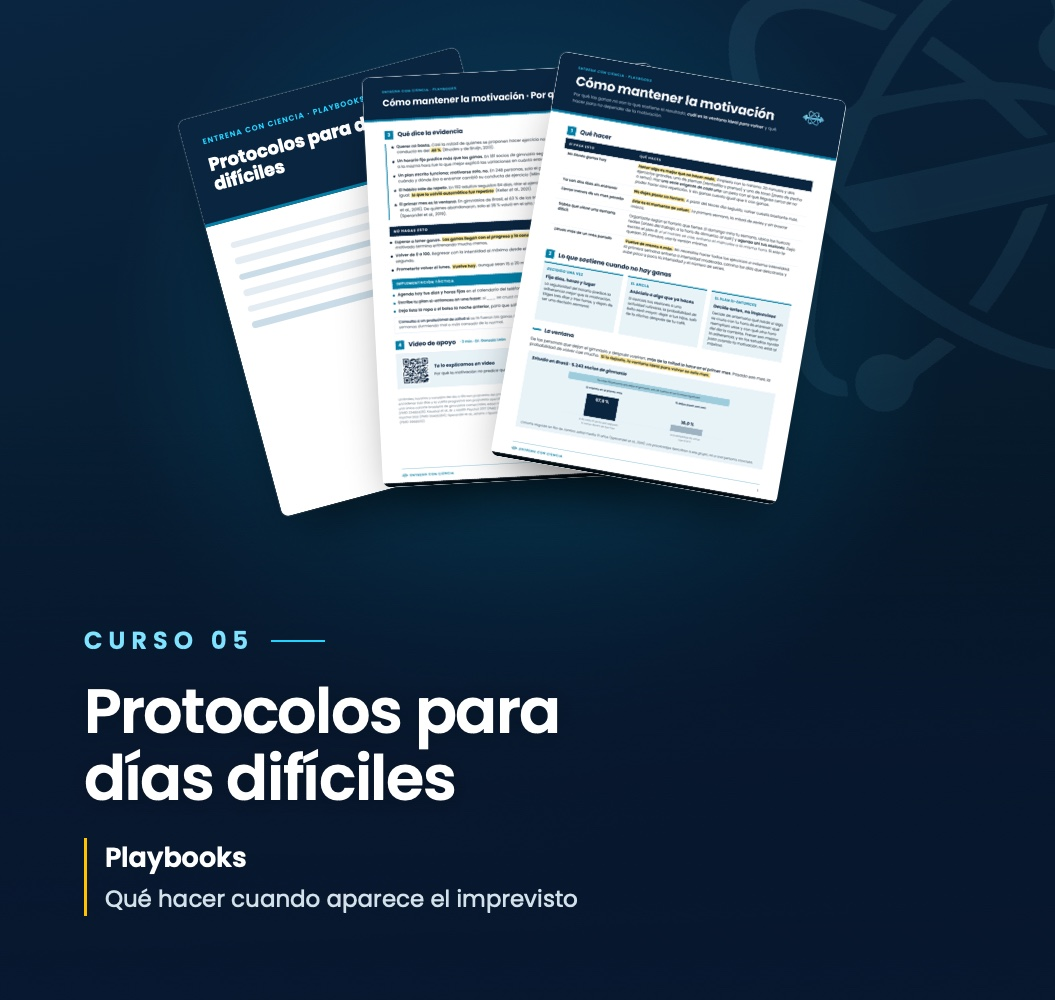
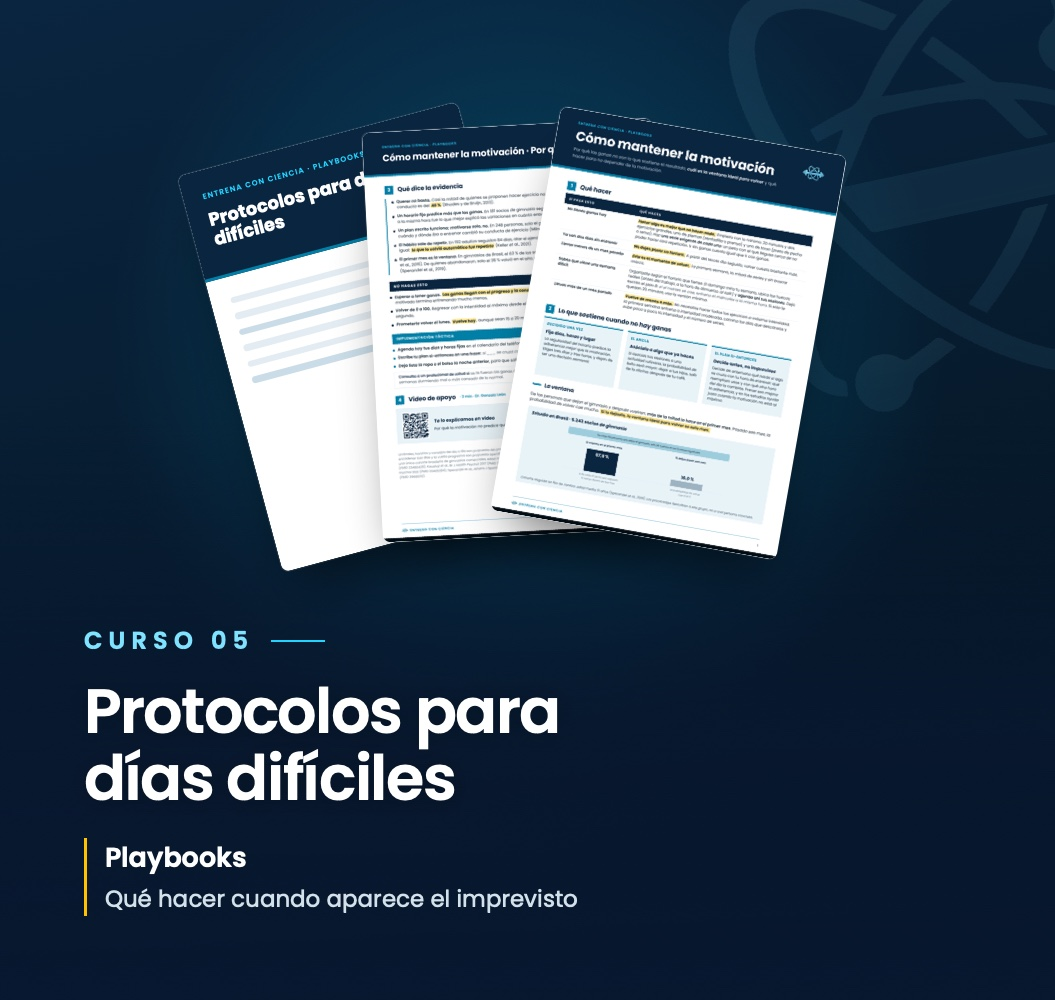
VSL: documentos de protocolos más abajo en la portada móvil

Changed region(s): [[0.182, 0.062, 0.819, 0.589], [0.7583, 0.093, 0.7886, 0.124]]

diff --git a/public/vsl/landing-movil.html b/public/vsl/landing-movil.html
@@ -420,7 +420,7 @@ setTimeout(revisar,0);addEventListener('load',function(){setTimeout(revisar,0)})
         </div>
         <div class="ecc-bezel ecc-bezel-on-dark" style="min-width:0;min-height:0">
           <div class="ecc-bezel-core ecc-bezel-core-on-dark" data-no-video="" style="position:relative;overflow:hidden;cursor:pointer;min-height:340px;height:100%">
-            <image-slot id="m-mod-protocolos" src="assets/portadas/protocolos-movil.jpg?v=5" shape="rect" placeholder="Video o portada de los protocolos"></image-slot>
+            <image-slot id="m-mod-protocolos" src="assets/portadas/protocolos-movil.jpg?v=6" shape="rect" placeholder="Video o portada de los protocolos"></image-slot>
           </div>
         </div>
       </div>
